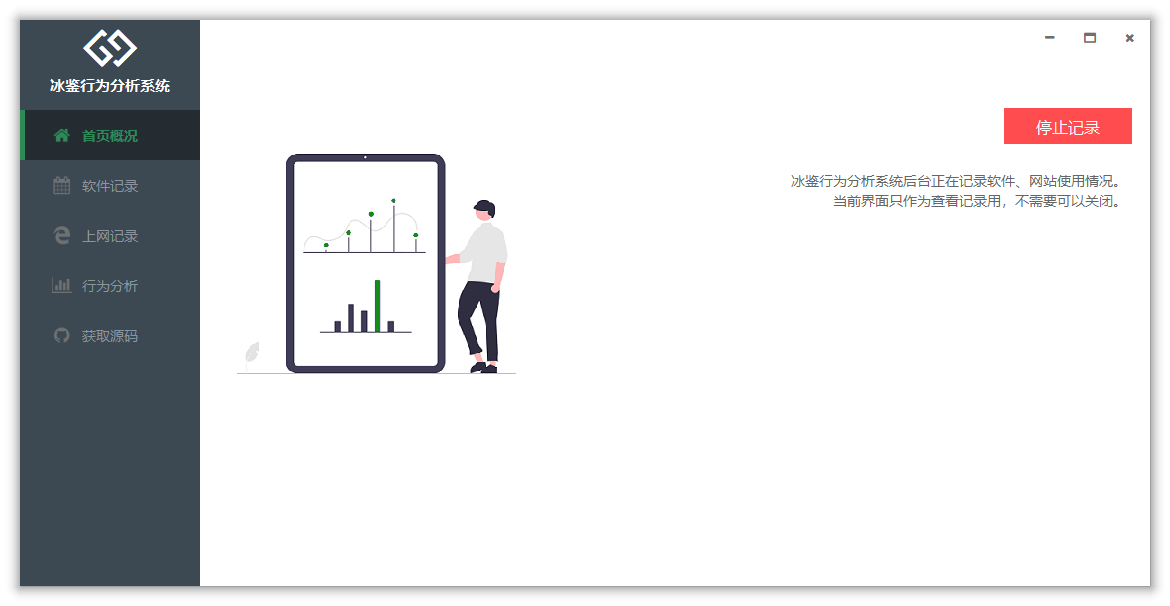
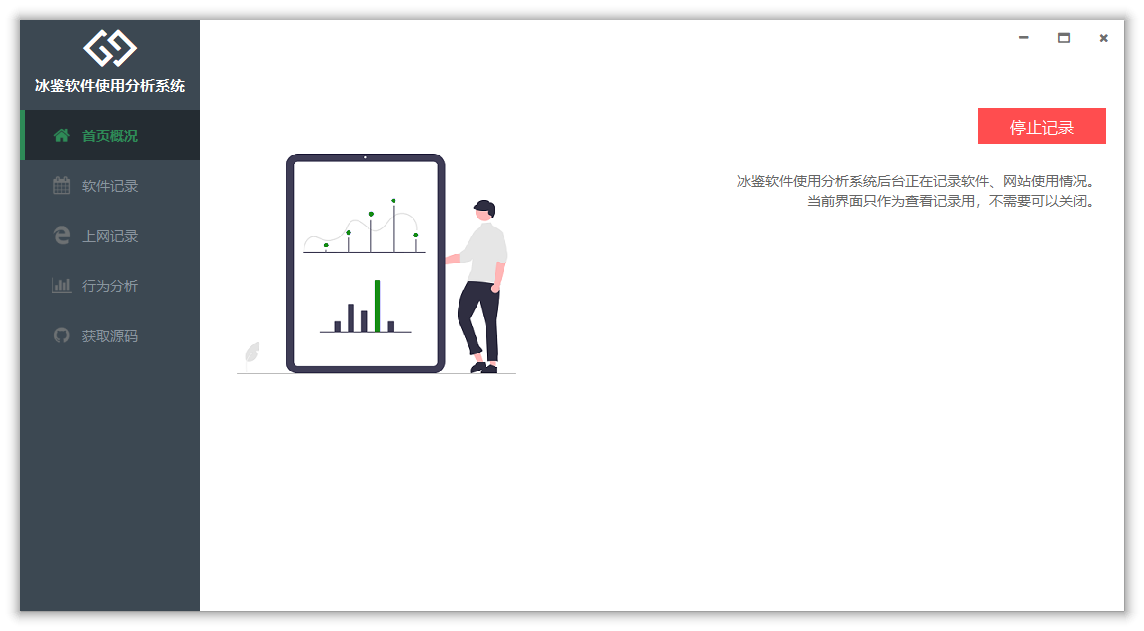
rename

diff --git a/docs/irecorder/index.md b/docs/irecorder/index.md
@@ -1,5 +1,5 @@
 ---
-title: 冰鉴 - 终端行为分析系统
+title: 冰鉴 - 软件使用分析系统
 order: 0
 nav:
   title: 冰鉴
@@ -8,7 +8,7 @@ nav:
 
 ## iRecorder
 
-**冰鉴 - 终端行为分析系统** 【上班不摸鱼】是一款为个人打造、专门分析自己电脑使用情况的软件。
+**冰鉴 - 软件使用分析系统** 【上班不摸鱼】是一款为个人打造、专门分析自己电脑使用情况的软件。
 
 ## 功能介绍
 
